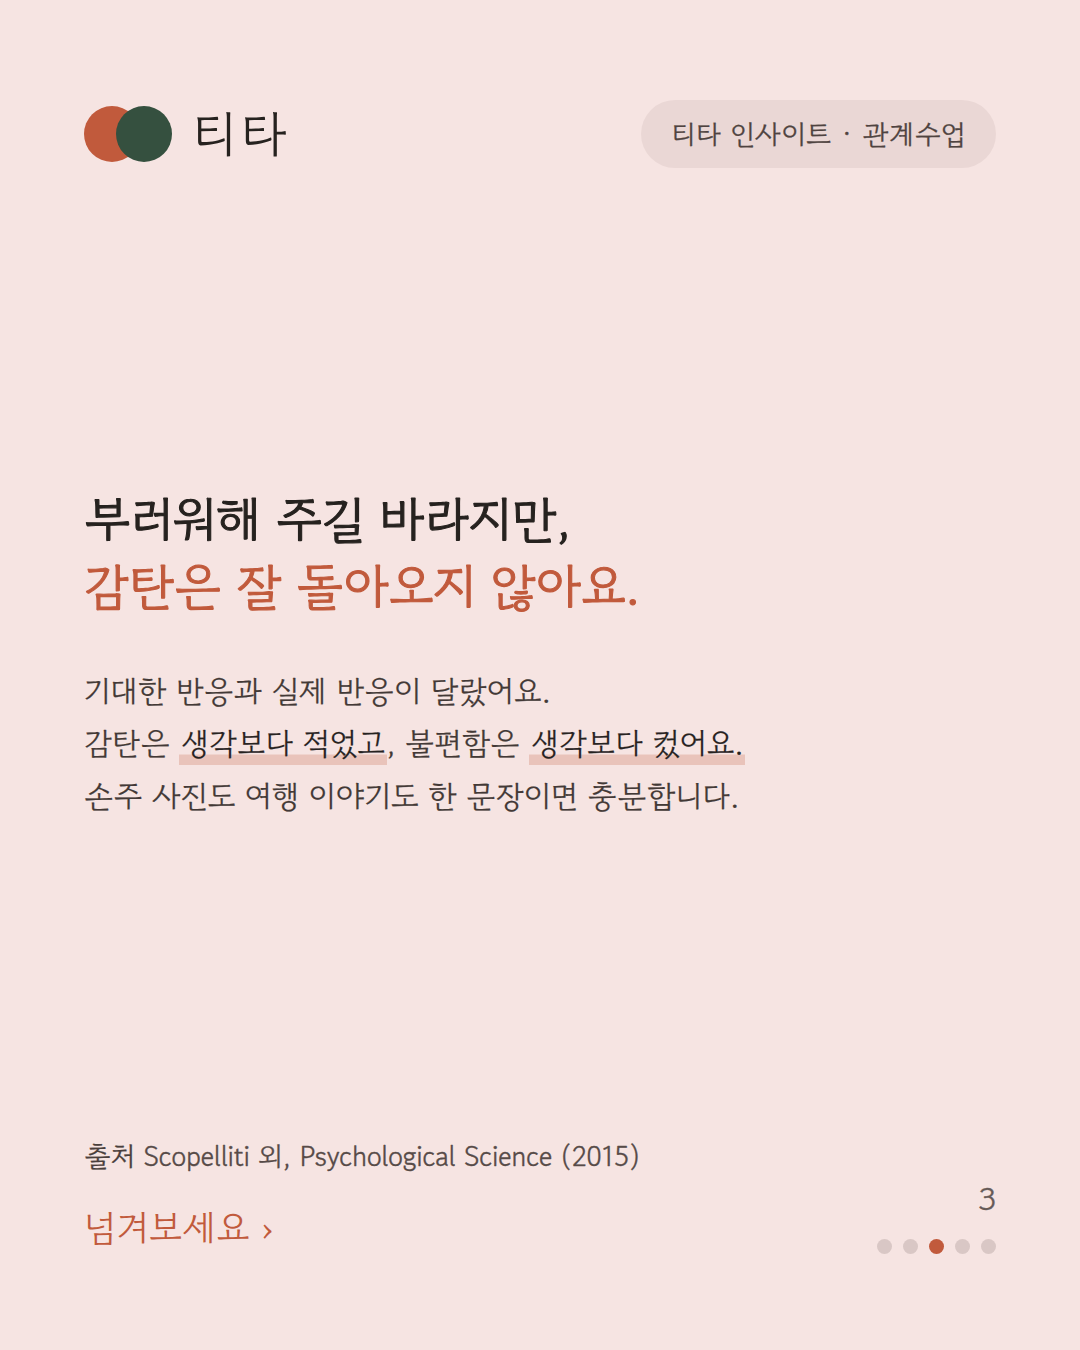
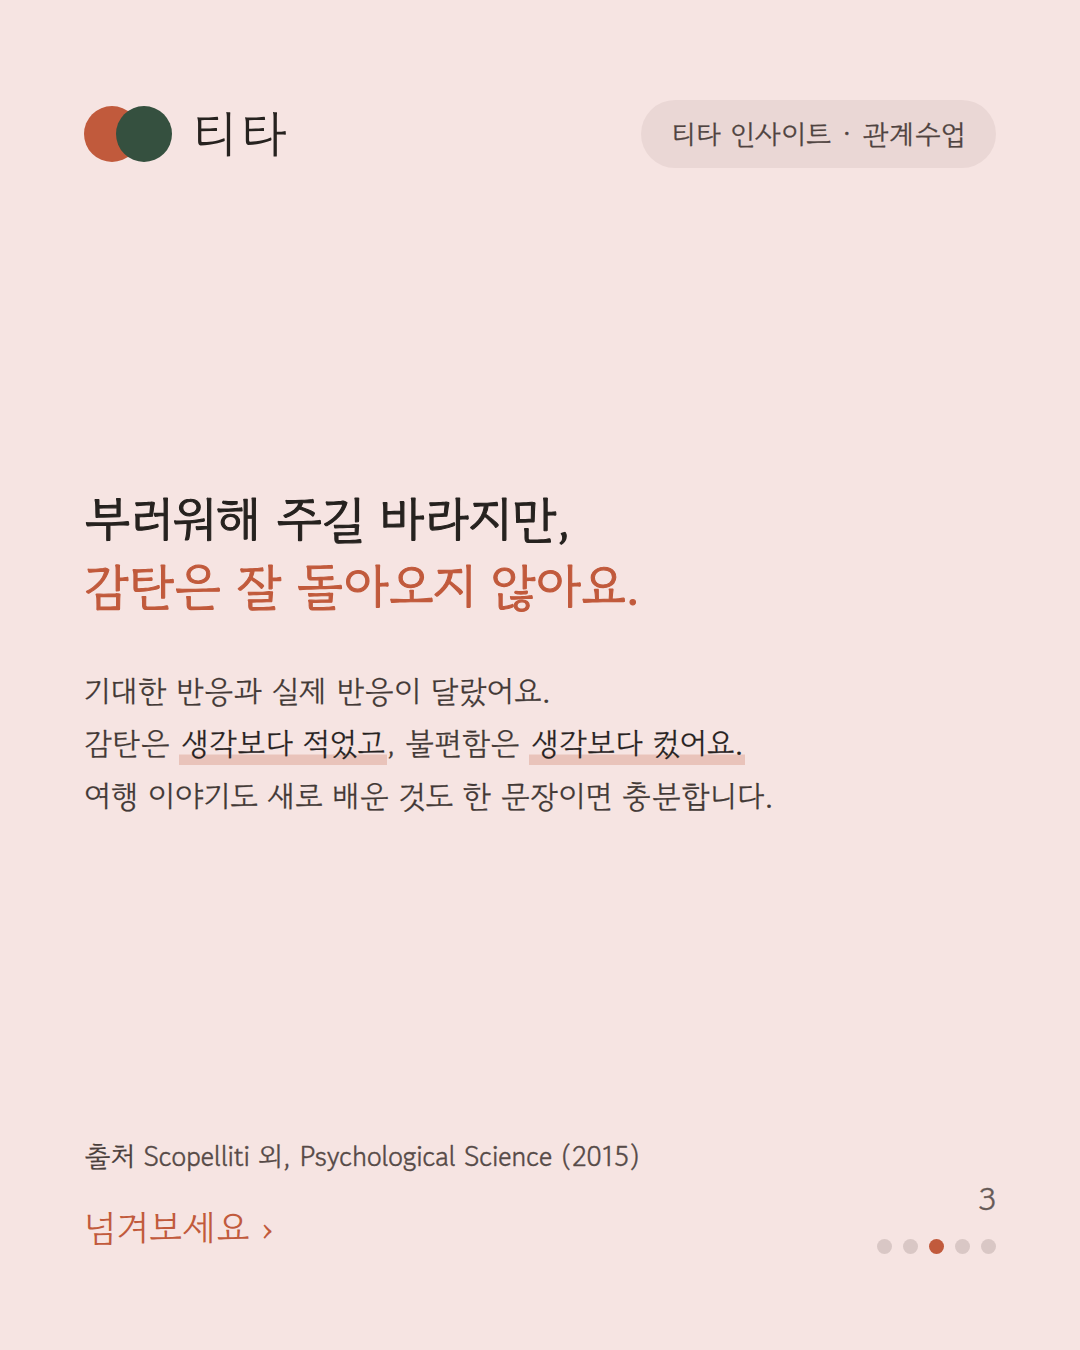
edit(blog): 손주 예시를 뺀다 — 독자 나이대를 좁힌다
손주가 들어가면 60대 이상 이야기로 읽혀, 45~55세 독자가 자기 얘기로 받지
않는다. 티타는 만 45세 이상이라 그 구간을 놓치면 안 된다.

여행과 "새로 배우기 시작한 것"으로 바꿨다. 나이를 좁히지 않고, 취미 모임에서
실제로 오가는 이야기이며, 자랑 요소도 자연스럽게 들어 있다.

Claude-Session: https://claude.ai/code/session_01SVoaR1M7XWjiBzTKquaj1d

Changed region(s): [[0.0917, 0.56, 0.7028, 0.6222]]

diff --git a/src/app/blog/posts.ts b/src/app/blog/posts.ts
@@ -126,7 +126,7 @@ export const POSTS: BlogPost[] = [
       },
       {
         type: "p",
-        text: "손주 사진을 꺼낼 때, 다녀온 여행 이야기를 할 때. 솔직히 그냥 알리고 싶어서만은 아닙니다. **조금 대단해 보이고 싶고, 부러워해 주면 좋겠다는 마음**이 섞여 있습니다. 저도 그렇습니다.",
+        text: "다녀온 여행 이야기를 꺼낼 때, 새로 배우기 시작한 것 이야기를 할 때. 솔직히 그냥 알리고 싶어서만은 아닙니다. **조금 대단해 보이고 싶고, 부러워해 주면 좋겠다는 마음**이 섞여 있습니다. 저도 그렇습니다.",
       },
       {
         type: "p",
